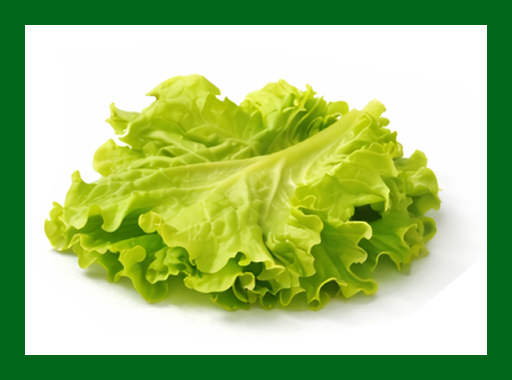
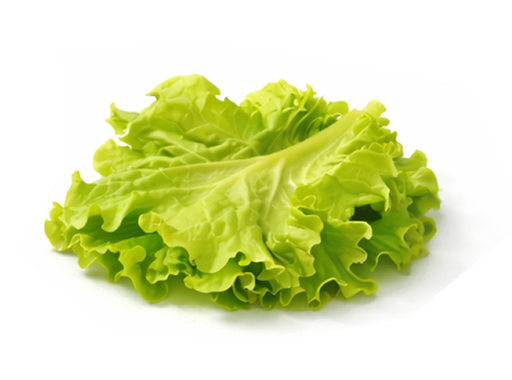
items centered in the viewer

Changed region(s): [[0.0, 0.0, 1.0, 1.0]]

diff --git a/frontend/src/components/ActionSidebar.vue b/frontend/src/components/ActionSidebar.vue
@@ -23,7 +23,7 @@ const exportAsImage = () => {
     scale: 3
   }).then((canvas) => {
     const link = document.createElement('a')
-    link.download = `guia-drakon-full.png`
+    link.download = `guia-drakon-final.png`
     link.href = canvas.toDataURL("image/png")
     link.click()
     element.classList.remove('clean')
@@ -50,11 +50,21 @@ const exportAsImage = () => {
         <div v-for="(guide, index) in guides" :key="index" class="column"
           :class="{ 'active': activeIndex === index && !isPreviewMode }"
           @click="!isPreviewMode && $emit('update:activeIndex', index)">
+          <div v-if="!isPreviewMode && activeIndex === index" class="edit-badge">
+            EDITANDO
+          </div>
+
           <h3 class="guide-title">{{ guide.name || `GUIA ${index + 1}` }}</h3>
 
           <div class="layers-list">
             <div v-for="layer in guide.layers" :key="layer.instanceId" class="layer-item">
+
               <img :src="layer.image" class="ingredient-img" />
+
+              <div class="info">
+                <span class="layer-name">{{ layer.name }}</span>
+              </div>
+
             </div>
             <div v-if="guide.layers.length === 0" class="empty-msg">VAZIO</div>
           </div>
@@ -65,7 +75,7 @@ const exportAsImage = () => {
 </template>
 
 <style scoped>
-/* Base */
+/* --- BASE & LAYOUT GERAL --- */
 .sidebar {
   flex: 1;
   display: flex;
@@ -92,12 +102,12 @@ const exportAsImage = () => {
   margin-bottom: 15px;
 }
 
-/* Botões UI */
 button {
   font-weight: 900;
   cursor: pointer;
   border: none;
   border-radius: 6px;
+  transition: background 0.2s;
 }
 
 .btn-primary {
@@ -122,7 +132,7 @@ button {
   background: #ef4444;
 }
 
-/* Visualizador */
+/* --- A4 SHEET (Visualizador Base / Reduzido) --- */
 .canvas-area {
   flex: 1;
   display: flex;
@@ -141,7 +151,6 @@ button {
   box-shadow: 0 5px 15px rgba(0, 0, 0, 0.1);
 }
 
-/* Colunas (Visualizador Reduzido) */
 .column {
   flex: 1;
   padding: 15px 8px;
@@ -162,6 +171,15 @@ button {
   z-index: 2;
 }
 
+.edit-badge {
+  position: absolute;
+  top: 8px;
+  right: 10px;
+  font-size: 7px;
+  font-weight: 900;
+  color: #fb923c;
+}
+
 .guide-title {
   font-size: 11px;
   font-weight: 900;
@@ -173,12 +191,13 @@ button {
   color: #111827;
 }
 
-/* Listagem Visual */
+/* --- ESTRUTURA UNIFICADA (Side-by-Side) --- */
 .layers-list {
   flex: 1;
   display: flex;
   flex-direction: column;
-  justify-content: center;
+  justify-content: center; /* Centraliza verticalmente (eixo principal) */
+  align-items: center;     /* Centraliza horizontalmente (eixo cruzado) */
   gap: 4px;
   min-height: 0;
 }
@@ -187,22 +206,42 @@ button {
   flex: 1;
   display: flex;
   align-items: center;
-  justify-content: center;
+  justify-content: flex-start;
+  /* Imagem na esquerda, texto na direita */
   min-height: 0;
-  max-height: 180px;
-  width: 100%;
+  max-height: 150px;
+  width: max-content;
 }
 
+/* Imagem Base (Visualizador Reduzido) */
 .ingredient-img {
-  max-width: 98%;
-  max-height: 100%;
+  max-width: 120px;
+  /* CONSTRAINT: Limite menor para caber na tela de edição */
+  height: 100%;
   width: auto;
-  height: auto;
   object-fit: contain;
   mix-blend-mode: multiply;
 }
 
-/* --- AJUSTES PARA O VISUALIZADOR COMPLETO (Aumentar Imagens) --- */
+.info {
+  width: 140px;
+  display: flex;
+  align-items: center;
+  padding-left: 8px;
+  flex: 1;
+}
+
+.layer-name {
+  font-size: 7px;
+  font-weight: 800;
+  color: #4b5563;
+  text-transform: uppercase;
+  line-height: 1.1;
+  white-space: normal;
+  word-wrap: break-word;
+}
+
+/* --- MODO PREVIEW / FULLSCREEN (Escala Aumentada) --- */
 .fullscreen .a4-sheet {
   width: auto;
   height: 98vh;
@@ -210,26 +249,39 @@ button {
 }
 
 .fullscreen .column {
-  padding: 10px 5px;
+  padding: 10px 8px;
 }
 
-/* Menos margem = mais espaço para imagem */
 .fullscreen .guide-title {
   font-size: 14px;
-  margin-bottom: 10px;
+  margin-bottom: 15px;
   padding-bottom: 10px;
 }
 
-.fullscreen .layer-item {
-  max-height: 250px;
-}
-
-/* Permite que a imagem cresça muito mais se houver espaço */
 .fullscreen .layers-list {
   gap: 2px;
 }
 
-/* Fullscreen Overlay */
+/* Escala vertical maior no Fullscreen */
+.fullscreen .layer-item {
+  max-height: 250px;
+}
+
+/* Escala horizontal maior no Fullscreen */
+.fullscreen .ingredient-img {
+  max-width: 280px !important;
+}
+
+/* Ajustes de tipografia e espaçamento para o Fullscreen */
+.fullscreen .info {
+  padding-left: 12px;
+}
+
+.fullscreen .layer-name {
+  font-size: 9px;
+}
+
+/* Fullscreen Overlays */
 .fullscreen {
   position: fixed;
   inset: 0;
